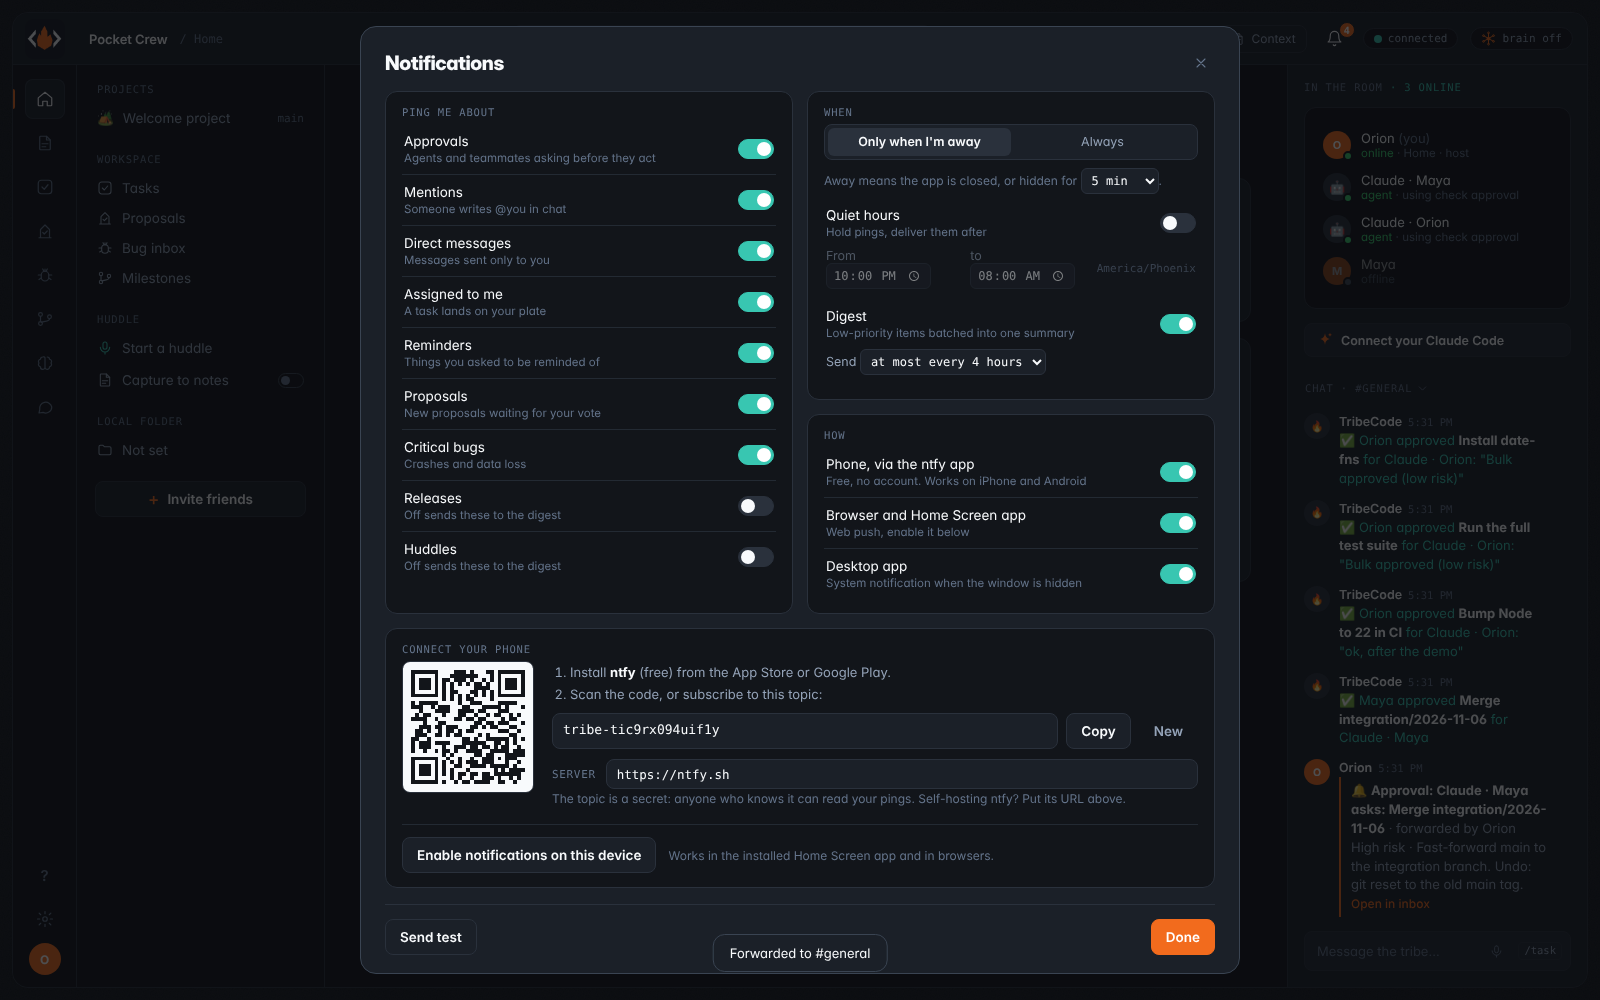
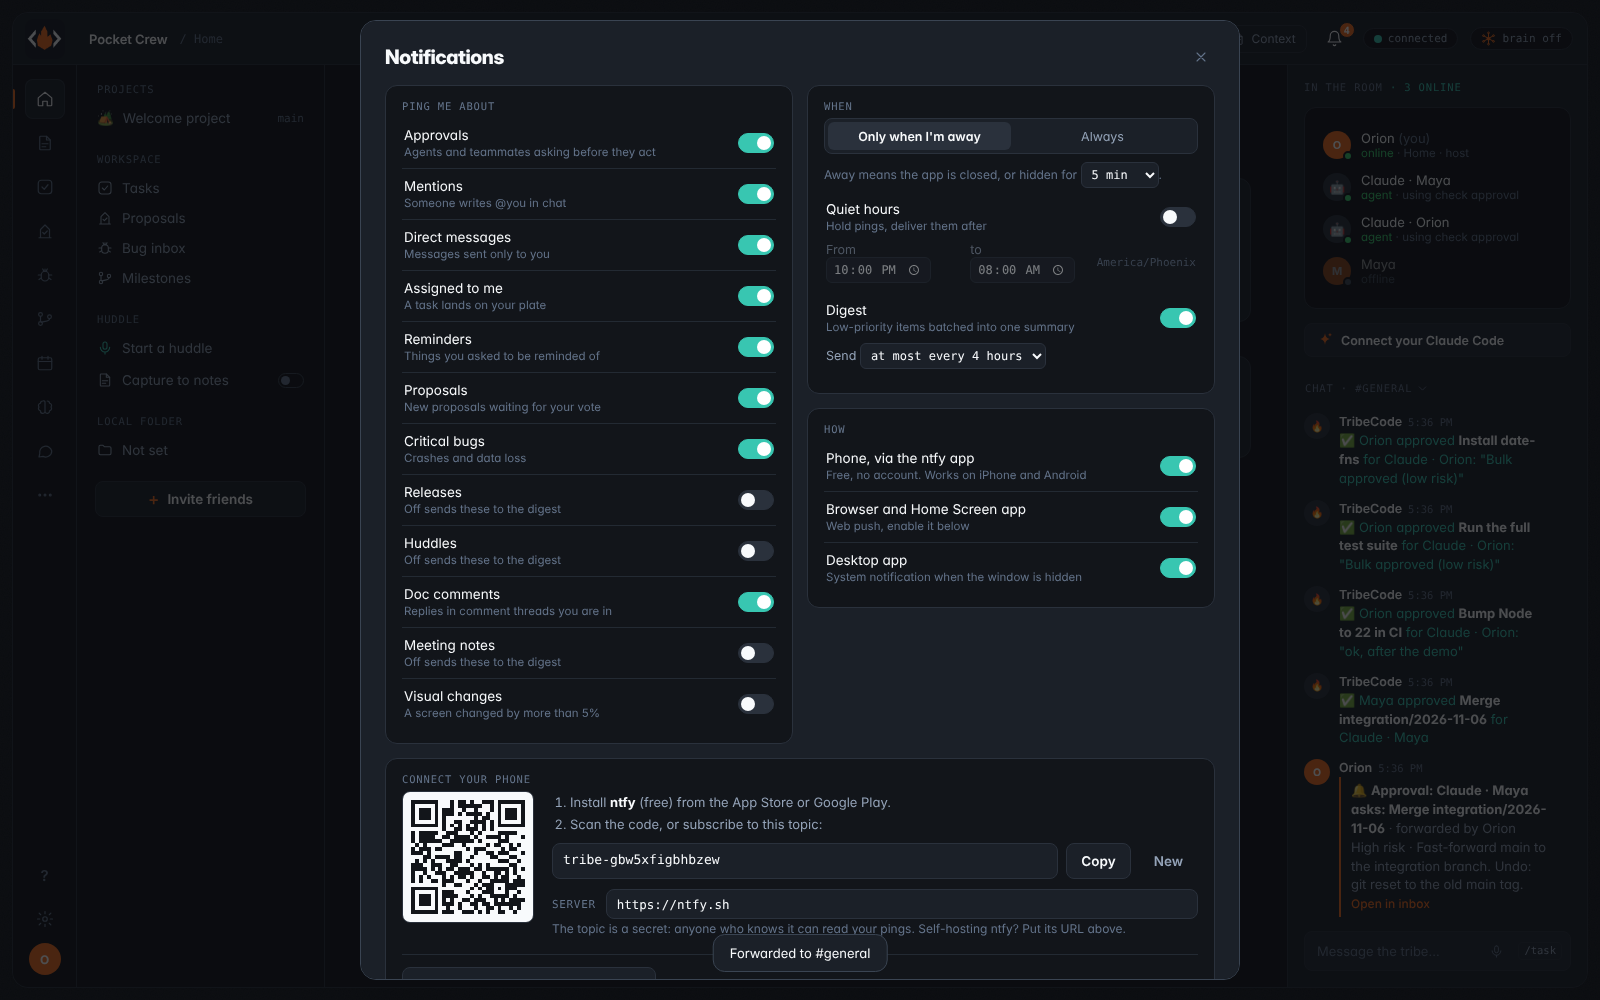
Merge feat/plan: calendar and reminders, task due dates, templates, [[links]] and backlinks, doc comments, history, pins and nesting, visual compare, floating quick looks
Notification settings gain doc comments, meeting notes and visual changes.

Claude-Session: https://claude.ai/code/session_01Twew38tmNVdwNycXqatzin

diff --git a/app/ui/notify.js b/app/ui/notify.js
@@ -75,7 +75,7 @@
     const p = pendingForMe().length; $('#nf-needs-n').textContent = p ? String(p) : '';
     bell.title = unread ? `Inbox · ${unread} unread` : 'Inbox';
   }
-  const LABEL = { approval: 'Approval', mention: 'Mention', dm: 'Message', 'task-assigned': 'Task', reminder: 'Reminder', proposal: 'Proposal', 'bug-critical': 'Critical bug', release: 'Release', huddle: 'Huddle', digest: 'Digest', 'approval-question': 'Question', 'approval-result': 'Decision' };
+  const LABEL = { approval: 'Approval', mention: 'Mention', dm: 'Message', 'task-assigned': 'Task', reminder: 'Reminder', proposal: 'Proposal', 'bug-critical': 'Critical bug', release: 'Release', huddle: 'Huddle', digest: 'Digest', 'approval-question': 'Question', 'approval-result': 'Decision', 'comment-reply': 'Comment', 'meeting-notes': 'Meeting', 'visual-diff': 'Visuals', repo: 'Repo' };
   const GROUP = { 'task-assigned': n => `${n} new tasks assigned to you`, mention: n => `${n} new mentions`, dm: n => `${n} new messages`, proposal: n => `${n} new proposals`,
     release: n => `${n} releases`, huddle: n => `${n} huddles started`, 'bug-critical': n => `${n} critical bugs`, reminder: n => `${n} reminders` };
   const openGroups = new Set();
@@ -363,6 +363,9 @@
     ['bug-critical', 'Critical bugs', 'Crashes and data loss'],
     ['release', 'Releases', 'Off sends these to the digest'],
     ['huddle', 'Huddles', 'Off sends these to the digest'],
+    ['comment-reply', 'Doc comments', 'Replies in comment threads you are in'],
+    ['meeting-notes', 'Meeting notes', 'Off sends these to the digest'],
+    ['visual-diff', 'Visual changes', 'A screen changed by more than 5%'],
   ];
   const toggle = (key, label, sub, on, extra = '') => `<button class="toggle nf-tg" role="switch" aria-checked="${on ? 'true' : 'false'}" data-k="${esc(key)}" ${extra}><span><span class="nf-tg-l">${esc(label)}</span>${sub ? `<small>${esc(sub)}</small>` : ''}</span><span class="switch"></span></button>`;
   const pushOk = () => 'serviceWorker' in navigator && 'PushManager' in window && window.isSecureContext;

diff --git a/server/notify.js b/server/notify.js
@@ -9,7 +9,7 @@ const crypto = require('node:crypto');
 const fs = require('node:fs');
 const webpush = require('./webpush');
 
-const TYPES = ['approval', 'mention', 'dm', 'task-assigned', 'reminder', 'proposal', 'bug-critical', 'release', 'huddle', 'meeting-notes', 'repo'];
+const TYPES = ['approval', 'mention', 'dm', 'task-assigned', 'reminder', 'proposal', 'bug-critical', 'release', 'huddle', 'meeting-notes', 'repo', 'comment-reply', 'visual-diff'];
 const RATE_MS = 2 * 60_000;           // at most one pocket push per type per member per 2 minutes
 const INBOX_KEEP = 200;
 const NTFY_PRIORITY = { high: '4', normal: '3', low: '2' };
@@ -18,7 +18,7 @@ const NTFY_TAGS = { approval: 'raising_hand', mention: 'speech_balloon', dm: 'en
 
 function defaultPrefs() {
   return {
-    types: { approval: true, mention: true, dm: true, 'task-assigned': true, reminder: true, proposal: true, 'bug-critical': true, release: false, huddle: false, 'meeting-notes': false, repo: false },
+    types: { approval: true, mention: true, dm: true, 'task-assigned': true, reminder: true, proposal: true, 'bug-critical': true, release: false, huddle: false, 'meeting-notes': false, repo: false, 'comment-reply': true, 'visual-diff': false },
     channels: { ntfy: true, webpush: true, desktop: true },
     ntfy: { server: 'https://ntfy.sh', topic: 'tribe-' + crypto.randomBytes(12).toString('base64url').replace(/[-_]/g, '').slice(0, 14).toLowerCase() },
     when: { mode: 'away', awayMinutes: 5, quiet: { on: false, from: '22:00', to: '08:00' } },
